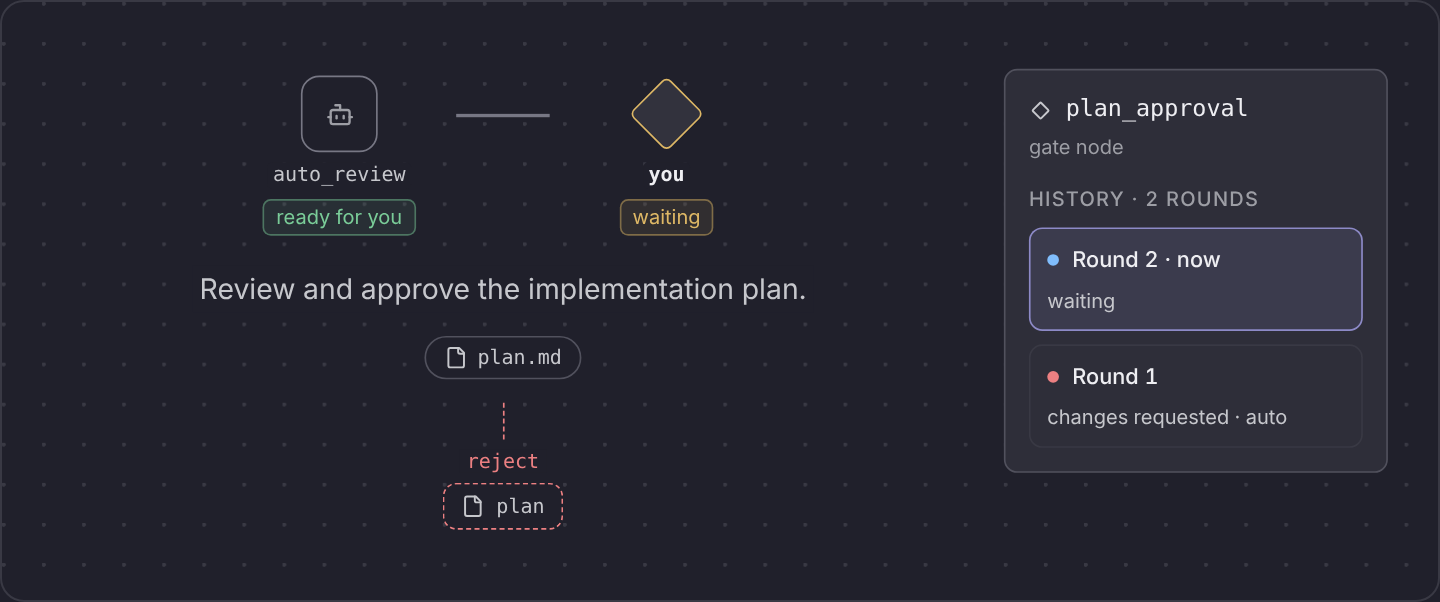
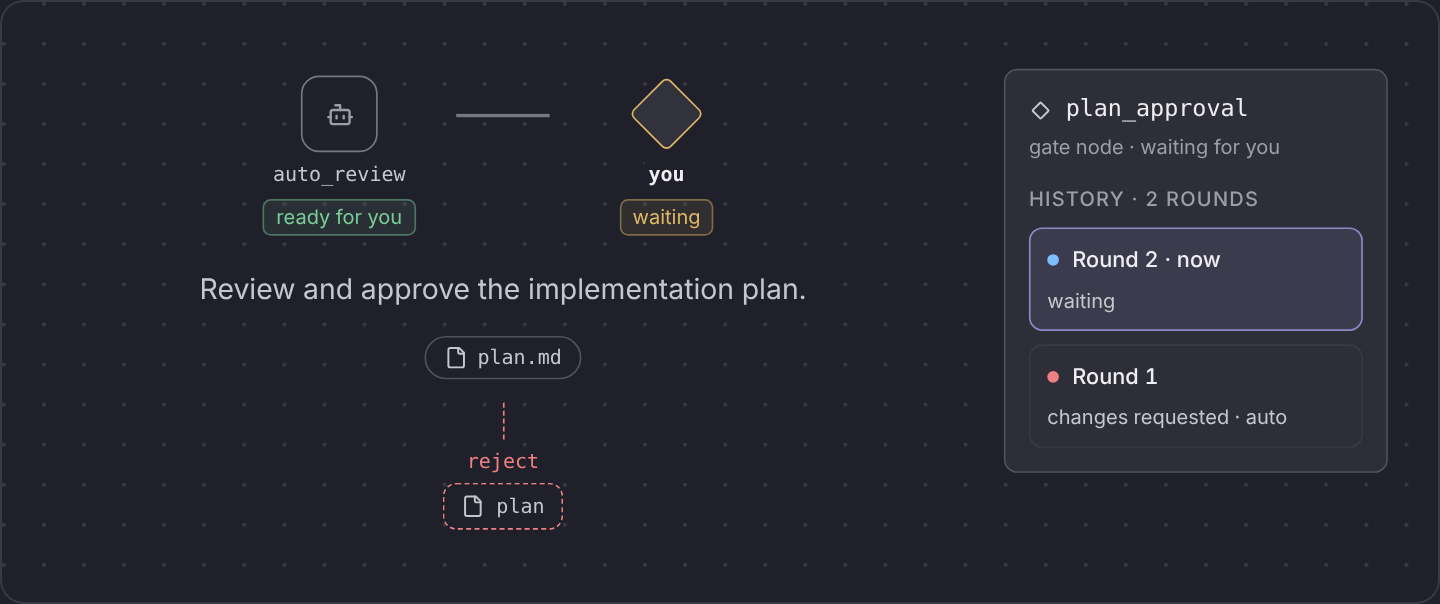
docs(blog): match the gate animation to the app, and let readers pause
A review against the app found the gate animation showing states the
item page never shows: the gate waits for the person from the moment it
is reached, with its reviewer running inside that wait, and History
appears only once a round has ended. The animations can now be paused
(WCAG 2.2.2), reserve their height before the script runs, follow a
change to reduced motion, write times and tokens as the app does, and
fit three running sub-agents. The feed carries the illustration note
under each still.

Claude-Session: https://claude.ai/code/session_01Q7bE5aq65sHE6sKthjgLg9

diff --git a/docsite/app/components/blog/BlogAnimation.vue b/docsite/app/components/blog/BlogAnimation.vue
@@ -26,33 +26,61 @@ const W = 860
 const { view, meta } = ANIMATIONS[props.name]
 const t = ref(meta.still)
 const scale = ref(1)
+// Paused by the reader's button or by reduced motion; ready once the page's script runs, so the button only shows when it works.
+const paused = ref(false)
+const ready = ref(false)
 const box = useTemplateRef<HTMLElement>('box')
 
 let raf = 0
+let visible = false
+let go = () => {}
 let stop = () => {}
 onMounted(() => {
   const el = box.value!
   const resize = new ResizeObserver(() => (scale.value = el.clientWidth / W))
   resize.observe(el)
-  const calm = matchMedia('(prefers-reduced-motion: reduce)')
   let start = 0
+  let from = 0
   const tick = (now: number) => {
     start ||= now
-    t.value = ((now - start) / 1000) % meta.loop
+    t.value = (from + (now - start) / 1000) % meta.loop
     raf = requestAnimationFrame(tick)
   }
-  const seen = new IntersectionObserver(([e]) => {
+  // Runs from where it stands, only while on screen and not paused.
+  go = () => {
     cancelAnimationFrame(raf)
-    if (e!.isIntersecting && !calm.matches) raf = requestAnimationFrame(tick)
+    if (!visible || paused.value) return
+    start = 0
+    from = t.value
+    raf = requestAnimationFrame(tick)
+  }
+  const calm = matchMedia('(prefers-reduced-motion: reduce)')
+  const still = () => {
+    paused.value = calm.matches
+    if (calm.matches) t.value = meta.still
+    go()
+  }
+  calm.addEventListener('change', still)
+  paused.value = calm.matches
+  const seen = new IntersectionObserver(([e]) => {
+    visible = e!.isIntersecting
+    go()
   })
   seen.observe(el)
+  ready.value = true
   stop = () => {
     resize.disconnect()
     seen.disconnect()
+    calm.removeEventListener('change', still)
     cancelAnimationFrame(raf)
   }
 })
 onBeforeUnmount(() => stop())
+
+function toggle() {
+  paused.value = !paused.value
+  go()
+}
 </script>
 
 <template>
@@ -62,7 +90,7 @@ onBeforeUnmount(() => stop())
       class="s-anim"
       role="img"
       :aria-label="alt"
-      :style="{ height: `${meta.height * scale}px` }"
+      :style="{ aspectRatio: `${W} / ${meta.height}` }"
     >
       <div
         class="a-stage"
@@ -75,12 +103,23 @@ onBeforeUnmount(() => stop())
         />
       </div>
     </figure>
-    <p
-      class="s-anim-note"
-      aria-hidden="true"
-    >
-      Illustration: Kraft's item page, drawn with a made-up run.
-    </p>
+    <div class="s-anim-foot">
+      <p
+        class="s-anim-note"
+        aria-hidden="true"
+      >
+        Illustration: Kraft's item page, drawn with a made-up run.
+      </p>
+      <button
+        v-if="ready"
+        type="button"
+        class="s-anim-pause"
+        :aria-pressed="paused"
+        @click="toggle"
+      >
+        {{ paused ? 'Play' : 'Pause' }}<span class="s-anim-sr"> the animation</span>
+      </button>
+    </div>
   </div>
 </template>
 
@@ -92,8 +131,47 @@ onBeforeUnmount(() => stop())
   margin: 28px 0;
 }
 
+.site .s-anim-foot {
+  display: flex;
+  align-items: baseline;
+  justify-content: space-between;
+  gap: 12px;
+  margin-top: 8px;
+}
+
+.site .s-anim-pause {
+  flex: none;
+  min-height: 32px;
+  padding: 0 12px;
+  border: 1px solid var(--s-border);
+  border-radius: 6px;
+  background: transparent;
+  color: var(--s-text-sub);
+  font: inherit;
+  font-size: 13px;
+  cursor: pointer;
+}
+
+.site .s-anim-pause:hover {
+  background: var(--s-raised);
+}
+
+.site .s-anim-pause:focus-visible {
+  outline: 2px solid var(--s-text);
+  outline-offset: 2px;
+}
+
+.site .s-anim-sr {
+  position: absolute;
+  width: 1px;
+  height: 1px;
+  overflow: hidden;
+  clip-path: inset(50%);
+  white-space: nowrap;
+}
+
 .site .s-anim-note {
-  margin: 8px 0 0;
+  margin: 0;
   font-size: 13px;
   color: var(--s-text-muted);
 }
@@ -119,6 +197,11 @@ onBeforeUnmount(() => stop())
   --a-bad: #ec8082;
 }
 
+
+.s-anim .a-layer {
+  position: absolute;
+  inset: 0;
+}
 
 .s-anim .a-stage {
   position: absolute;

diff --git a/docsite/app/utils/blogAnimation/gate.ts b/docsite/app/utils/blogAnimation/gate.ts
@@ -2,19 +2,25 @@ import { at, type Look, type Meta, type Seg } from './shared.ts'
 
 export const meta: Meta = { loop: 16, still: 12, height: 360 }
 
-// The default chain's plan gate. Round 1: the reviewer checks first and sends the plan back. Round 2: it checks the
-// revised plan and hands it to the person, ready for you; the gate then waits. It never approves (checks_first).
+// The default chain's plan gate, as the gate view draws it (frontend/src/ng/item/gateView.ts). The gate is pending,
+// and so "waiting" on the person, from the moment it is reached: its reviewer runs inside that wait. Round 1: the
+// reviewer checks first and sends the plan back, so the gate stops pending and reads the round's outcome. Round 2: the
+// gate is reached again, the reviewer checks the revised plan and marks it ready for you. It never approves
+// (checks_first). The badge shows the open round's verdict once there is one, else the reviewer's mode; the plan's
+// document shows only while the gate is pending; History, once a round has ended.
+const ROUND_2 = 6.4
 const REVIEWER: Seg<[Look, string, '' | 'bad' | 'ok']>[] = [
   [0, 'todo', 'checks first', ''], [0.4, 'run', 'checks first', ''], [3.2, 'done', 'reject', 'bad'],
-  [6.4, 'todo', 'runs first when reached', ''], [7.6, 'run', 'checks first', ''], [10.6, 'done', 'ready for you', 'ok'],
+  [ROUND_2, 'done', 'checks first', ''], [7.6, 'run', 'checks first', ''], [10.6, 'done', 'ready for you', 'ok'],
 ]
 
 export function gateAt(t: number) {
   const [, reviewer, badge, tone] = at(REVIEWER, t)
-  const yours = t >= 10.6
-  const rounds: { n: number, now: boolean, outcome: string, tone: 'run' | 'bad' }[] = [
-    { n: 1, now: t < 6.4, outcome: t >= 3.2 ? 'changes requested · auto' : 'waiting', tone: t >= 3.2 ? 'bad' : 'run' },
-  ]
-  if (t >= 6.4) rounds.unshift({ n: 2, now: true, outcome: 'waiting', tone: 'run' })
-  return { reviewer, badge, tone, yours, you: yours ? 'waiting' : 'decides after the agent', sentBack: t >= 3.2 && t < 6.4, rounds }
+  const sentBack = t >= 3.2 && t < ROUND_2
+  const pending = !sentBack
+  const rounds: { n: number, now: boolean, outcome: string, tone: 'run' | 'bad' }[] = t < 3.2
+    ? []
+    : [{ n: 1, now: t < ROUND_2, outcome: 'changes requested · auto', tone: 'bad' }]
+  if (t >= ROUND_2) rounds.unshift({ n: 2, now: true, outcome: 'waiting', tone: 'run' })
+  return { reviewer, badge, tone, pending, you: pending ? 'waiting' : 'changes requested · auto', sentBack, rounds }
 }

diff --git a/docsite/tests/blogAnimation.test.ts b/docsite/tests/blogAnimation.test.ts
@@ -4,6 +4,7 @@
 import assert from 'node:assert/strict'
 import { test } from 'node:test'
 import { gateAt, meta as gate } from '../app/utils/blogAnimation/gate.ts'
+import { seconds, thousands } from '../app/utils/blogAnimation/shared.ts'
 import { meta as slices, slicesAt } from '../app/utils/blogAnimation/slices.ts'
 import { meta as subagents, subagentsAt } from '../app/utils/blogAnimation/subagents.ts'
 
@@ -26,6 +27,11 @@ test('each still frame shows the animation\'s point', () => {
   assert.equal(a.open, false, 'finished sub-agents stay folded while others run')
 })
 
+test('times and token counts read as the app writes them', () => {
+  assert.deepEqual([seconds(45.9), seconds(60), seconds(125)], ['45s', '1m', '2m'])
+  assert.deepEqual([thousands(950), thousands(4000), thousands(19_640)], ['950', '4k', '19.6k'])
+})
+
 test('a slice shows its plan tasks until it starts, and the join counts the slices it replays', () => {
   assert.deepEqual(slicesAt(0).slices.map(x => x.word), ['tasks 2–4', 'tasks 5, 6', 'tasks 7–9'])
   assert.deepEqual([17, 17.6, 18.4].map(t => slicesAt(t).joinWord), ['slice 1 of 3', 'slice 2 of 3', 'slice 3 of 3'])
@@ -40,12 +46,19 @@ test('a slice shows its plan tasks until it starts, and the join counts the slic
   }
 })
 
-test('the gate reviewer never approves, and the gate waits for you only after it is ready', () => {
+test('the gate waits for you from the moment it is reached, and its reviewer never approves', () => {
   for (const t of moments(LOOPS.gate.loop)) {
     const g = gateAt(t)
-    assert.ok(['checks first', 'reject', 'runs first when reached', 'ready for you'].includes(g.badge), `badge "${g.badge}" (t=${t})`)
-    assert.equal(g.yours, g.badge === 'ready for you', `t=${t}`)
+    assert.ok(['checks first', 'reject', 'ready for you'].includes(g.badge), `badge "${g.badge}" (t=${t})`)
+    // gateView.ts youSub: "waiting" while pending, else the newest round's outcome.
+    assert.equal(g.you, g.pending ? 'waiting' : 'changes requested · auto', `t=${t}`)
+    assert.equal(g.sentBack, !g.pending, `t=${t}`)
+    if (g.reviewer === 'run') assert.ok(g.pending, `the reviewer runs inside the wait (t=${t})`)
+    // GatePane.tsx: History once some round has ended.
+    assert.equal(g.rounds.length > 0, t >= 3.2, `t=${t}`)
   }
+  assert.equal(gateAt(1).badge, 'checks first')
+  assert.equal(gateAt(5).badge, 'reject')
 })
 
 test('sub-agents run before they finish, and the marks follow them', () => {

diff --git a/docsite/app/components/blog/animation/Gate.vue b/docsite/app/components/blog/animation/Gate.vue
@@ -25,17 +25,20 @@ const g = computed(() => gateAt(props.t))
           <span class="a-label">auto_review</span>
           <span :class="`a-badge${g.tone ? ` is-${g.tone}` : ''}`">{{ g.badge }}</span>
         </div>
-        <span :class="`a-gate-line${g.yours ? ' is-ran' : ''}`" />
+        <span :class="`a-gate-line${g.reviewer !== 'todo' ? ' is-ran' : ''}`" />
         <div class="a-gate-item">
-          <span class="a-diamond-box"><span :class="`a-diamond${g.yours ? ' is-yours' : ''}`" /></span>
-          <span :class="`a-label is-you${g.yours ? ' is-on' : ''}`">you</span>
-          <span :class="`a-badge${g.yours ? ' is-warn' : ''}`">{{ g.you }}</span>
+          <span class="a-diamond-box"><span :class="`a-diamond${g.pending ? ' is-yours' : ''}`" /></span>
+          <span :class="`a-label is-you${g.pending ? ' is-on' : ''}`">you</span>
+          <span :class="`a-badge${g.pending ? ' is-warn' : ''}`">{{ g.you }}</span>
         </div>
       </div>
       <p class="a-gate-msg">
         Review and approve the implementation plan.
       </p>
-      <span class="a-pill"><svg
+      <span
+        v-if="g.pending"
+        class="a-pill"
+      ><svg
         viewBox="0 0 24 24"
         width="14"
         height="14"
@@ -61,8 +64,11 @@ const g = computed(() => gateAt(props.t))
         rx="1"
         transform="rotate(45 12 12)"
       /></svg>plan_approval</span>
-      <span class="a-pane-sub">gate node</span>
-      <span class="a-section">History · {{ g.rounds.length }} {{ g.rounds.length === 1 ? 'round' : 'rounds' }}</span>
+      <span class="a-pane-sub">gate node{{ g.pending ? ' · waiting for you' : '' }}</span>
+      <span
+        v-if="g.rounds.length"
+        class="a-section"
+      >History · {{ g.rounds.length }} {{ g.rounds.length === 1 ? 'round' : 'rounds' }}</span>
       <div
         v-for="r in g.rounds"
         :key="r.n"

diff --git a/docsite/server/utils/feedHtml.ts b/docsite/server/utils/feedHtml.ts
@@ -2,6 +2,8 @@
 export type FeedNode = string | [string, Record<string, unknown>, ...FeedNode[]]
 
 const VOID = new Set(['img', 'br', 'hr'])
+// The note under an item-page animation (components/blog/BlogAnimation.vue).
+export const ILLUSTRATION = 'Illustration: Kraft\'s item page, drawn with a made-up run.'
 // The HTML a post's Markdown makes. Any other tag is a site component (a
 // callout such as ::note, ::site-video) that a feed reader can't draw.
 const HTML = new Set(['p', 'a', 'strong', 'em', 'del', 'code', 'pre', 'blockquote', 'ul', 'ol', 'li', 'h1', 'h2', 'h3', 'h4', 'h5', 'h6', 'table', 'thead', 'tbody', 'tr', 'th', 'td', 'img', 'br', 'hr', 'span'])
@@ -18,7 +20,8 @@ export function feedHtml(node: FeedNode, origin: string): string {
   // The site's video player is a script; a feed reader gets a link to the video.
   if (tag === 'site-video') return `<p><a href="https://www.youtube.com/watch?v=${escape(String(props.id))}">${escape(String(props.title))}</a></p>`
   // An animation of the item page is a script too; a feed reader gets its still frame.
-  if (tag === 'blog-animation') return props.still ? `<p><img src="${escape(`${origin}${props.still}`)}" alt="${escape(String(props.alt ?? ''))}"></p>` : ''
+  // It is drawn with a made-up run, and says so in the feed as on the page.
+  if (tag === 'blog-animation') return props.still ? `<p><img src="${escape(`${origin}${props.still}`)}" alt="${escape(String(props.alt ?? ''))}"><br><em>${ILLUSTRATION}</em></p>` : ''
   // Any other component is unwrapped to its contents.
   if (!HTML.has(tag)) return children.map(c => feedHtml(c, origin)).join('')
   if (tag === 'pre') return `<pre><code>${escape(String(props.code ?? ''))}</code></pre>`

diff --git a/docsite/app/components/blog/animation/Subagents.vue b/docsite/app/components/blog/animation/Subagents.vue
@@ -56,7 +56,7 @@ const a = computed(() => subagentsAt(props.t))
         >{{ a.running.length }}</span>
       </span>
       <span class="a-label is-run">implement</span>
-      <span class="a-meta">{{ a.on ? `running · ${a.ran}` : 'not yet' }}</span>
+      <span class="a-meta">{{ a.on ? `running · ${a.ran}` : 'not started' }}</span>
       <span
         v-if="a.marks.length"
         class="a-marks"
@@ -78,9 +78,9 @@ const a = computed(() => subagentsAt(props.t))
         width="14"
         height="14"
       ><path d="M9.937 15.5A2 2 0 0 0 8.5 14.063l-6.135-1.582a.5.5 0 0 1 0-.962L8.5 9.936A2 2 0 0 0 9.937 8.5l1.582-6.135a.5.5 0 0 1 .963 0L14.063 8.5A2 2 0 0 0 15.5 9.937l6.135 1.581a.5.5 0 0 1 0 .964L15.5 14.063a2 2 0 0 0-1.437 1.437l-1.582 6.135a.5.5 0 0 1-.963 0z" /></svg>implement</span>
-      <span class="a-pane-sub">{{ a.on ? `agent task · running ${a.ran}` : 'agent task · not yet' }}</span>
+      <span class="a-pane-sub">{{ a.on ? `agent task · running ${a.ran}` : 'agent task · not started' }}</span>
       <span class="a-tabs"><span class="is-on">Overview</span><span>Input</span><span>Output</span><span>Log</span><span>Config</span></span>
-      <span class="a-facts"><span>status</span><span>{{ a.on ? 'running' : 'not yet' }}</span><span>harness</span><span>claude</span></span>
+      <span class="a-facts"><span>status</span><span>{{ a.on ? 'running' : 'not started' }}</span><span>harness</span><span>claude</span></span>
       <span
         v-if="a.running.length || a.finished.length"
         class="a-section"

diff --git a/docsite/tests/feedHtml.test.ts b/docsite/tests/feedHtml.test.ts
@@ -14,7 +14,7 @@ const rows: [string, FeedNode, string][] = [
   ['a code block is its source text', ['pre', { code: 'a <b>\n', language: 'bash' }, ['code', {}, ['span', {}, 'a']]], '<pre><code>a &lt;b&gt;\n</code></pre>'],
   ['the highlighter style is dropped', ['style', {}, 'html{}'], ''],
   ['the video is a link', ['site-video', { id: 'abc', title: 'T' }], '<p><a href="https://www.youtube.com/watch?v=abc">T</a></p>'],
-  ['an animation is its still frame', ['blog-animation', { name: 'gate', still: '/blog/p/gate.png', alt: 'A "gate"' }], '<p><img src="https://kraft-sdlc.dev/blog/p/gate.png" alt="A &quot;gate&quot;"></p>'],
+  ['an animation is its still frame', ['blog-animation', { name: 'gate', still: '/blog/p/gate.png', alt: 'A "gate"' }], '<p><img src="https://kraft-sdlc.dev/blog/p/gate.png" alt="A &quot;gate&quot;"><br><em>Illustration: Kraft\'s item page, drawn with a made-up run.</em></p>'],
   ['an animation with no still is left out', ['blog-animation', { name: 'gate', alt: 'A' }], ''],
   ['a callout is unwrapped', ['note', {}, ['p', {}, 'x']], '<p>x</p>'],
 ]

diff --git a/docsite/app/utils/blogAnimation/shared.ts b/docsite/app/utils/blogAnimation/shared.ts
@@ -23,8 +23,9 @@ const easeInOut = (x: number) => (x < 0.5 ? 4 * x * x * x : 1 - (-2 * x + 2) ** 
 // 0 to 1 over `length` seconds from `from`, eased in and out.
 export const draw = (t: number, from: number, length: number) => easeInOut(clamp01((t - from) / length))
 
-export const seconds = (s: number) => s < 60 ? `${Math.floor(s)}s` : `${Math.floor(s / 60)}m ${String(Math.floor(s % 60)).padStart(2, '0')}s`
-export const thousands = (n: number) => n < 1000 ? String(Math.round(n)) : `${(n / 1000).toFixed(1)}k`
+// Times and token counts as the app writes them (frontend/src/format.ts `elapsed`, `tokens`): "45s", "2m", "19.6k", "4k".
+export const seconds = (s: number) => s < 60 ? `${Math.floor(s)}s` : `${Math.floor(s / 60)}m`
+export const thousands = (n: number) => n < 1000 ? String(Math.round(n)) : `${(n / 1000).toFixed(1).replace(/\.0$/, '')}k`
 
 // A chain edge's class: dashed until what it leads to has started.
 export const edge = (on: boolean) => (on ? 'a-edge' : 'a-edge is-todo')

diff --git a/docsite/app/utils/blogAnimation/subagents.ts b/docsite/app/utils/blogAnimation/subagents.ts
@@ -1,7 +1,7 @@
 import { type Look, type Meta, seconds, thousands } from './shared.ts'
 
-// The pane needs more height than the chains.
-export const meta: Meta = { loop: 18, still: 9, height: 440 }
+// The pane needs more height than the chains: three running sub-agents at once.
+export const meta: Meta = { loop: 18, still: 9, height: 510 }
 
 // An implement task that opens three sub-agents. The pane lists the running ones with what each is doing now, and
 // folds the finished ones away until none is still running; the marks under the task's box follow them.

diff --git a/docsite/app/components/blog/animation/Slices.vue b/docsite/app/components/blog/animation/Slices.vue
@@ -231,11 +231,6 @@ const inner = computed(() => {
 </template>
 
 <style scoped>
-.a-layer {
-  position: absolute;
-  inset: 0;
-}
-
 .a-zoom-title {
   position: absolute;
   width: 400px;

diff --git a/docsite/blog/whats-new-in-2-6.md b/docsite/blog/whats-new-in-2-6.md
@@ -54,7 +54,7 @@ In the `default` chain, a reviewer agent now checks each gate (spec, plan, chain
 ---
 name: gate
 still: /blog/whats-new-in-2-6/gate.png
-alt: "An illustration of the plan gate with its reviewer: in round 1 the auto_review step checks the plan and sends it back to plan; in round 2 it checks the revised plan and marks it ready for you, and the gate waits for you. The gate's history lists both rounds."
+alt: "An illustration of the plan gate with its reviewer: the gate waits for you while its auto_review step checks the plan first. In round 1 the reviewer sends the plan back; in round 2 it marks the revised plan ready for you. The gate's history lists both rounds."
 ---
 ::
 
